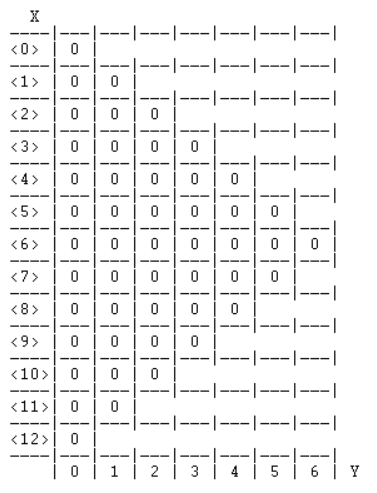
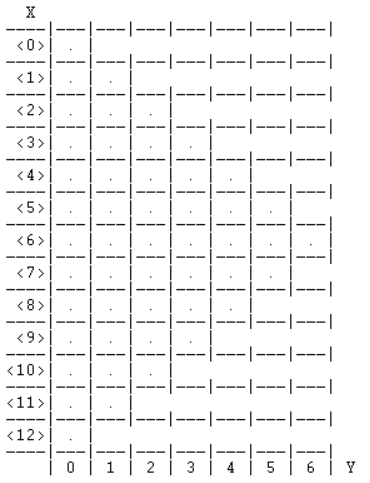
Updated README - Final version

Changed region(s): [[0.0, 0.0, 0.9514, 0.9938], [0.8622, 0.3727, 0.9216, 0.4037]]

diff --git a/README.md b/README.md
@@ -39,10 +39,10 @@ If using Windows, we can click on the options `File` -> `Consult` -> select the 
 
 GameState is represented as a list with 2 elements, the current Player and the current Board. Board is also represented as a list but it includes sublists that represent rows of the board. Each element of rhose sublists, represents an element in a column. There can be 4 diferent values on the board:
 
-- `0` represents an empty space
-- `p` represents a playable space
-- `b` represents a space occupied by a black piece
-- `w` represents a space occupied by a white piece
+- `0` represents an empty space - printed on the board as `.`
+- `p` represents a playable space - printed on the board as `x`
+- `b` represents a space occupied by a black piece - printed on the board as `B`
+- `w` represents a space occupied by a white piece - printed on the board as `W`
 
 
 Here are some representations of the different states on the game:
@@ -213,6 +213,19 @@ game_over([Player|ListOfMoves]) :-
 ---
 
 
+### Game State Evaluation
+
+The `value(+Board, +Row, +Col, -Value)` predicate takes four arguments: the current Board, the coordinates of a playable piece and a Value that determines the quality of the play. 
+```prolog
+value(Board, Row, Col, Value) :-
+    clean_playables(Board, NewBoard),
+    swap(Row, Col, NewBoard, ListOfMoves),
+    count_p(ListOfMoves, Value).
+```
+This predicate calls the predicate `swap(+Row, +Col, +NewBoard, -ListOfMoves)` to determine and mark on the board the playable places that are possible from the coordinate (Row, Col) given and the predicate `count_p(+ListOfMoves, -Value)` to determine how many playable spaces exist from that coordinate.
+This predicate will be useful for the bot to determine the move with the best `Value` by iterating trough all the possible plays from a given position.
+
+
 ### Computer Plays
 
 All the bots resort to the predicate `choose_move(+GameState, +Level, -Move)` to pick a valid move according to the difficulty (Level) picked at the game menu:
@@ -220,27 +233,37 @@ All the bots resort to the predicate `choose_move(+GameState, +Level, -Move)` to
 ```prolog
 choose_move([Player|Board], Level, [PointX, PointY]) :-
     ((Level = 2) -> choose_random_p(Board, PointX, PointY);
-        find_p_with_more_w_and_b(Board, PointX, PointY)
+        hard(Board, PointX, PointY)
     ).
 ```
 If `Level` corresponds to `2`, the `choose_random_p(+Board, -PointX, -PointY)` predicate is called, picking a playable space, marked with `p`, randomly.
-Oherwise, the `find_p_with_more_w_and_b(+Board, -PointX, -PointY)` predicate is called to run the algorithm with hardest difficulty available on the game.
+Oherwise, the `hard(+Board, -PointX, -PointY)` predicate is called to run the algorithm with hardest difficulty available on the game.
 
-To make up a good strategy for an algorithm, after playing and studying the game Trike a bit, we realised that one of best possible moves to make was to place a piece right next to our lastly played piece so that we can always keep the maximum number of checkers around us since the winner is determined by that condition.
-With that, we decided to implement our hardest algorithm around that strategy, so the predicate `find_p_with_more_w_and_b(+Board, -PointX, -PointY)` does exactly what was mentioned before:
+To make up a good strategy for an algorithm for the hard difficulty of the bot, after playing and studying the game Trike a bit, we realised that one of best possible moves to make to play on the cell with the most available spaces possible. This way, the play takes more of a defensive aprocah since it always places a piece where the opponent isn't trying to end the game. 
+With that, we decided to implement our hardest algorithm around that strategy, so the predicate `hard(+Board, -PointX, -PointY)` does exactly what was mentioned before by picking the move with the best Value:
 
 ```prolog
-find_p_with_more_w_and_b(Board, Row, Col) :-
+hard(Board, Row, Col) :-
     get_p_coordinates(Board, PList),
-    process_elements(PList, Board, Results),
-    find_max_position(Results, Pos),
-    custom_nth1(Pos, PList, (Row, Col)).
+    process_p(Board, PList, Values),
+    max_position1(Values, Index),
+    custom_nth1(Index, PList, (Row, Col)).
+
+process_p(_, [], []).
+process_p(Board, [(Row,Col)|Res], [Value|Values]) :-
+    value(Board, Row, Col, Value),
+    process_p(Board, Res, Values).
+
+value(Board, Row, Col, Value) :-
+    clean_playables(Board, NewBoard),
+    swap(Row, Col, NewBoard, ListOfMoves),
+    count_p(ListOfMoves, Value).
 ```
 
-- `get_p_coordinates(Board, PList)`: checks all the cells of the board and returns all the playable ones (marked with `p`)
-- `process_elements(PList, Board, Results)`: process each element in the list and store the scores in a new list. Score is determined by the number of pieces of the player that are around each playable space
-- `find_max_position(Results, Pos)`: find the position of the maximum value on the list with the scores
-- `custom_nth1(Pos, PList, (Row, Col)`: retrieve the position of the element with the maximum score
+- `get_p_coordinates(+Board, -PList)`: checks all the cells of the board and returns all the playable ones (marked with `p`)
+- `process_p(+Board, +PList, -Values)`: process each element in the list and store the values in a new list. This predicate iterates trough all the playable spaces and calls the predicate `value(+Board, +Row, +Col, -Value)` to calculate the number of playable places if a piece is placed on that cell and stores that number on the variable Values. 
+- `max_position1(+Values, -Index)`: find the position of the maximum value on the list, this is, the play that will have the most playable spaces
+- `custom_nth1(+Index, +PList, -(Row, Col)`: retrieve the position of the element with the maximum score
 
 --- 
 
